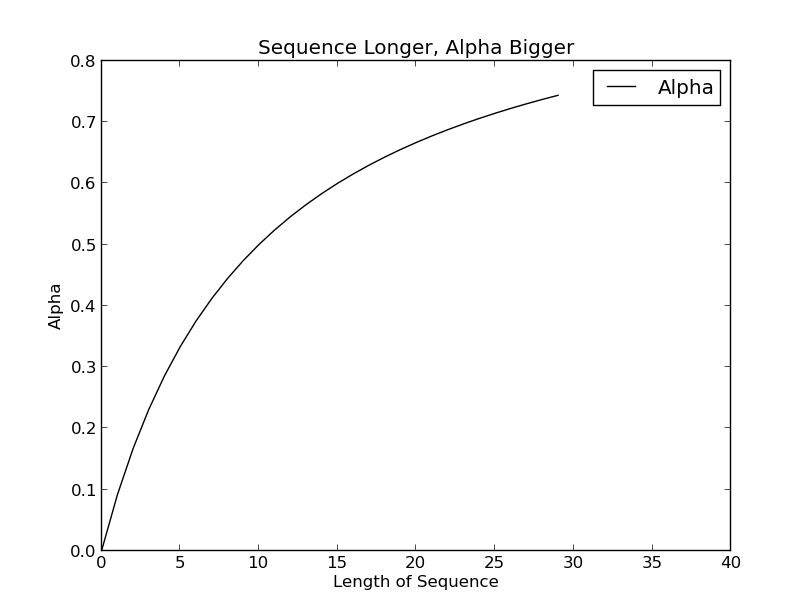
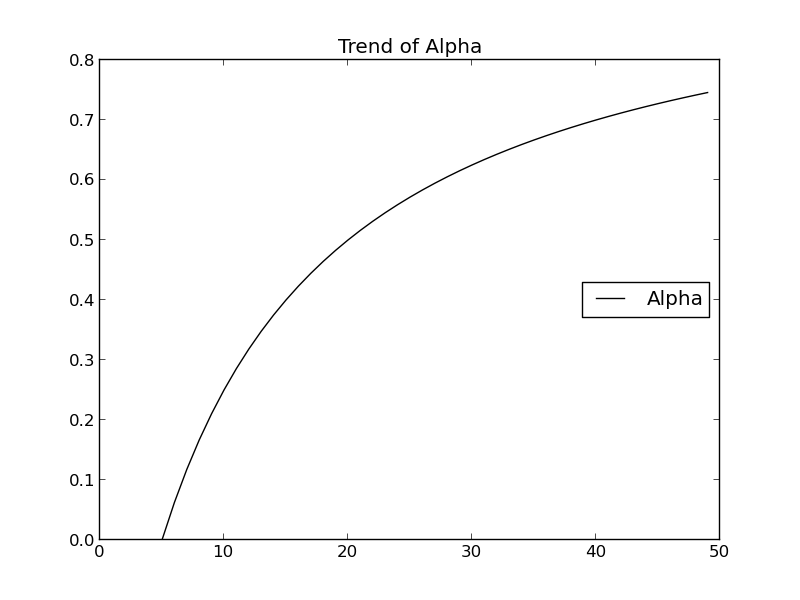
alpha

diff --git a/Python/experiment/src/main.py b/Python/experiment/src/main.py
@@ -17,6 +17,7 @@ import const
 import time
 import persist
 import numpy as np
+import matplotlib.pyplot as plt
 
 reload(sys)
 sys.setdefaultencoding('utf-8')
@@ -86,6 +87,22 @@ def bestParametersTraning():
 
   print F
   
+def showAlpha():
+  x = range(50)
+  y = []
+  for i in x:
+    tmp = i - 5.0
+    if tmp < 0:
+      y.append(0)
+    else:
+      val = (i - 5.0) / (i + 10.0)
+      y.append(val)
+
+  plt.plot(x,y,"k",label="Alpha")
+  plt.title("Trend of Alpha")
+  plt.legend(loc="center right")
+  plt.savefig("../img/trends of alpha.png")
+  plt.show()
 
 if __name__ == "__main__":
 
@@ -96,9 +113,10 @@ if __name__ == "__main__":
   #test.testRecMethod(const.ARIMA)
   
   #test_session.showResult()
-  test.showResult()
+  #test.showResult()
   #test.getErrorOfRecMethod(const.MARKOV)
   #bestParametersTraning()
+  showAlpha()
 
 ############Local#############
 #Recall =  0.327450980392
